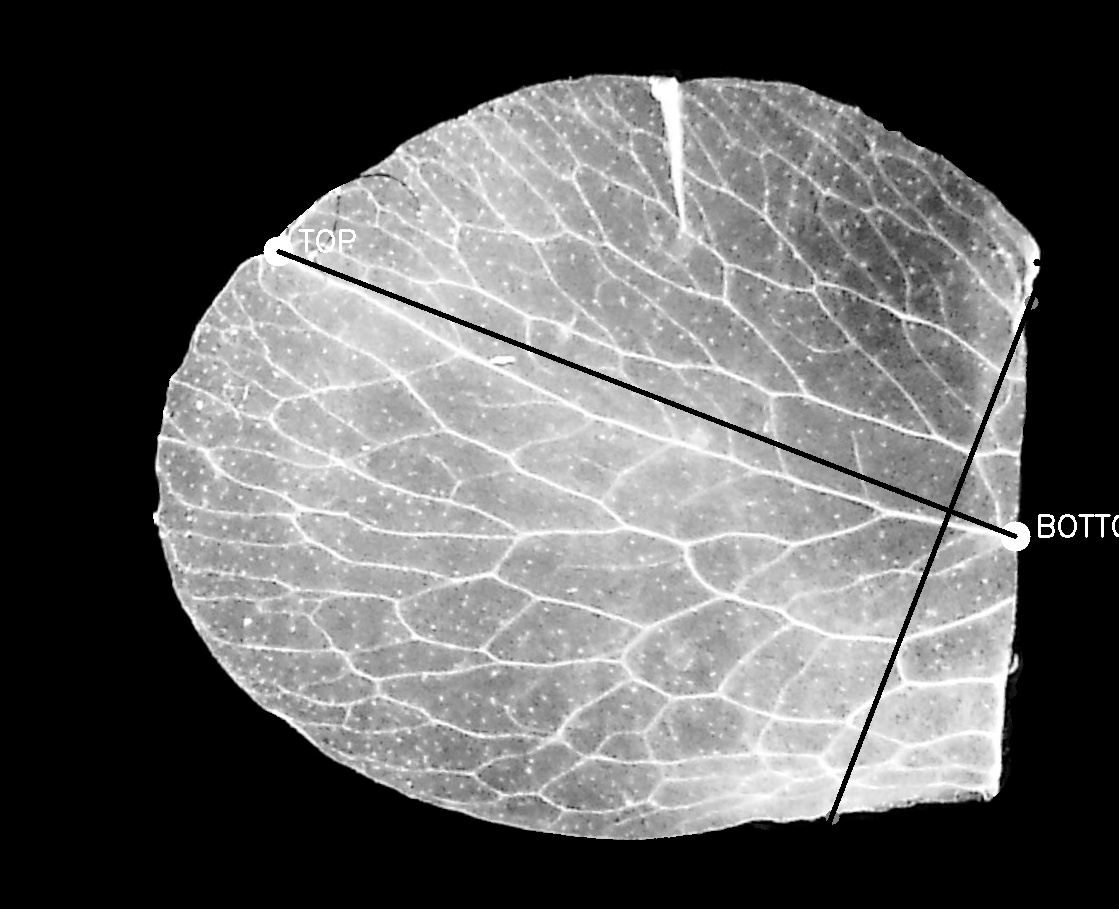
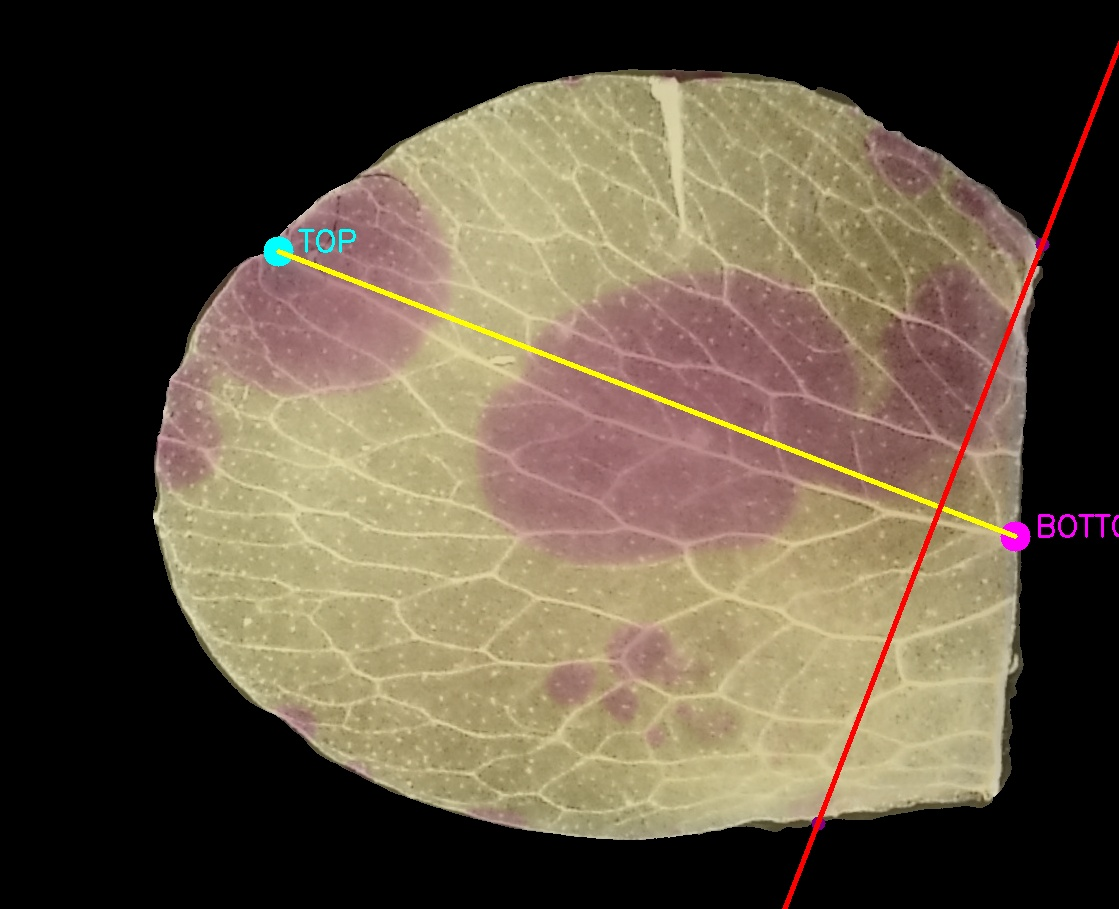
Changed the image source for warping. Warping is now done on combined vein/petal image

diff --git a/src/image_warping.py b/src/image_warping.py
@@ -124,6 +124,7 @@ def display_keypoints(input_dir, output_dir):
             #keypoints = vein_annotation_t
             #Use the straightened image from petals_bottom
             image = straightened_images[base_name]
+            image = cv2.cvtColor(image, cv2.COLOR_BGR2RGB)
             #image = vein_aligned #fallback
 
             if image is None:
@@ -266,7 +267,7 @@ def display_keypoints(input_dir, output_dir):
             import traceback
             traceback.print_exc()
 
-def warp_petals(input_dir, output_dir):
+def warp_petals(input_dir, output_dir, draw_Keypoints=True):
     """Process all vein images in the input directory."""
     os.makedirs(output_dir, exist_ok=True)
 
@@ -274,7 +275,7 @@ def warp_petals(input_dir, output_dir):
 
     image_pairs = img_align.get_file_pairs(input_dir)
     success = 0
-    straightened_images = petals_bottom.process_all_petals(input_dir, output_dir, False)
+    straightened_images = petals_bottom.process_all_petals(input_dir, output_dir, False) #Change so that we use the combined image and not the vein image
     for pair in image_pairs:
         #print(f"Processing pair: {pair[0]} and {pair[1]}")
         if "vein" in pair[0].lower():
@@ -381,6 +382,7 @@ def warp_petals(input_dir, output_dir):
                 [cx,  cy - radius],  # top corner        -> left end of diameter
                 [cx,  cy + radius],  # bottom corner     -> right end of diameter
             ])
+            axis_points = dest_points[:4]  # the 4 keypoints that define the main axis and corners
 
             # Also offset the circle edge keypoints
             circle_keypoints_top_abs = circle_keypoints_top    + np.array([cx, cy])
@@ -411,39 +413,48 @@ def warp_petals(input_dir, output_dir):
             edge_keypoints_bottom = np.array(edge_keypoints_bottom)
             
             # Display original and warped images with landmarks
-            print('displaying results for: ' + base_name)
-            fig, (ax1, ax2) = plt.subplots(1, 2)
-            ax1.imshow(image, cmap='gray')
-            #ax1.scatter(src_points[:, 0], src_points[:, 1], marker='x', color='red')
-            ax1.scatter(edge_keypoints_top[:, 0], edge_keypoints_top[:, 1], marker='o', color='blue', label='Top Edge Keypoints')
-            ax1.scatter(edge_keypoints_bottom[:, 0], edge_keypoints_bottom[:, 1], marker='o', color='green', label='Bottom Edge Keypoints')
-            #for i, point in enumerate(src_points):
-            #    ax1.annotate(f'KP{i+1}', (point[0] + 5, point[1] - 5), color='red', fontsize=12)
-            ax1.set_title('Original Image')
+            if draw_Keypoints:
+                print('displaying results for: ' + base_name)
+                fig, (ax1, ax2) = plt.subplots(1, 2)
+                ax1.imshow(image, cmap='gray')
+                #ax1.scatter(src_points[:, 0], src_points[:, 1], marker='x', color='red')
+                ax1.scatter(edge_keypoints_top[:, 0], edge_keypoints_top[:, 1], marker='o', color='blue', label='Top Edge Keypoints')
+                ax1.scatter(edge_keypoints_bottom[:, 0], edge_keypoints_bottom[:, 1], marker='o', color='green', label='Bottom Edge Keypoints')
+                ax1.scatter(keypoints['center_vein_top'][0], keypoints['center_vein_top'][1], marker='o', color='yellow', label='Center Vein Top')
+                ax1.scatter(keypoints['center_vein_bottom'][0], keypoints['center_vein_bottom'][1], marker='o', color='magenta', label='Center Vein Bottom')
+                ax1.scatter(keypoints['top corner'][0], keypoints['top corner'][1], marker='o', color='yellow', label='Top Corner')
+                ax1.scatter(keypoints['bottom corner'][0], keypoints['bottom corner'][1], marker='o', color='yellow', label='Bottom Corner')
+                #for i, point in enumerate(src_points):
+                #    ax1.annotate(f'KP{i+1}', (point[0] + 5, point[1] - 5), color='red', fontsize=12)
+                ax1.set_title('Original Image')
 
-            ax2.imshow(warped, cmap='gray')
-            #ax2.scatter(dest_points[:, 0], dest_points[:, 1], marker='x', color='red')
-            ax2.scatter(circle_keypoints_top_abs[:, 0], circle_keypoints_top_abs[:, 1], marker='o', color='blue', label='Top Edge Keypoints')
-            ax2.scatter(circle_keypoints_bottom_abs[:, 0], circle_keypoints_bottom_abs[:, 1], marker='o', color='green', label='Bottom Edge Keypoints')
-            #for i, point in enumerate(dest_points):
-            #    ax2.annotate(f'KP{i+1}', (point[0] + 5, point[1] - 5), color='red', fontsize=12)
-            ax2.set_title('Warped Image')
+                ax2.imshow(warped, cmap='gray')
+                #ax2.scatter(dest_points[:, 0], dest_points[:, 1], marker='x', color='red')
+                ax2.scatter(circle_keypoints_top_abs[:, 0], circle_keypoints_top_abs[:, 1], marker='o', color='blue', label='Top Edge Keypoints')
+                ax2.scatter(circle_keypoints_bottom_abs[:, 0], circle_keypoints_bottom_abs[:, 1], marker='o', color='green', label='Bottom Edge Keypoints')
+                ax2.scatter(axis_points[:, 0], axis_points[:, 1], marker='o', color='yellow', label='Axis Keypoints')
+                
+                #for i, point in enumerate(dest_points):
+                #    ax2.annotate(f'KP{i+1}', (point[0] + 5, point[1] - 5), color='red', fontsize=12)
+                ax2.set_title('Warped Image')
 
-            for i, point in enumerate(edge_keypoints_top):
-                ax1.annotate(str(i), (point[0]+5, point[1]-5), color='blue', fontsize=8)
-            for i, point in enumerate(circle_keypoints_top_abs):
-                ax2.annotate(str(i), (point[0]+5, point[1]-5), color='blue', fontsize=8)
+                for i, point in enumerate(edge_keypoints_top):
+                    ax1.annotate(str(i), (point[0]+5, point[1]-5), color='white', fontsize=8)
+                for i, point in enumerate(circle_keypoints_top_abs):
+                    ax2.annotate(str(i), (point[0]+5, point[1]-5), color='white', fontsize=8)
 
-            for i, point in enumerate(edge_keypoints_bottom):
-                ax1.annotate(str(i), (point[0]+5, point[1]-5), color='green', fontsize=8)
-            for i, point in enumerate(circle_keypoints_bottom_abs):
-                ax2.annotate(str(i), (point[0]+5, point[1]-5), color='green', fontsize=8)
-            if show.lower() == 'y':
-                plt.show()
-            
-            output_path = os.path.join(output_dir, f"{base_name}_warped.png")
-            plt.savefig(output_path, bbox_inches='tight', dpi=150)
-            plt.close()  # Free memory, important when processing many images
+                for i, point in enumerate(edge_keypoints_bottom):
+                    ax1.annotate(str(i), (point[0]+5, point[1]-5), color='white', fontsize=8)
+                for i, point in enumerate(circle_keypoints_bottom_abs):
+                    ax2.annotate(str(i), (point[0]+5, point[1]-5), color='white', fontsize=8)
+                for i, point in enumerate(keypoints.values()):
+                    ax1.annotate(f'KP{i+1}', (point[0] + 5, point[1] - 5), color='white', fontsize=12)
+                if show.lower() == 'y':
+                    plt.show()
+                
+                output_path = os.path.join(output_dir, f"{base_name}_warped.png")
+                plt.savefig(output_path, bbox_inches='tight', dpi=150)
+                plt.close()  # Free memory, important when processing many images
 
 
         except Exception as e:

diff --git a/src/petals_bottom.py b/src/petals_bottom.py
@@ -278,12 +278,17 @@ def process_all_petals(input_dir, output_dir, Write=True):
             
             # Process image
             petal_shape, vein_aligned, warp_matrix = img_align.align_images(petal_image, image)
+            # Use combined image instead of vein_aligned.
+            masked_petal = cv2.bitwise_and(petal_image,cv2.cvtColor(petal_shape, cv2.COLOR_GRAY2BGR),) 
+            combined = img_align.combine_imgs(masked_petal, vein_aligned)
             inv_warp_matrix = cv2.invertAffineTransform(warp_matrix) 
             vein_annotation_t = JSONfunc.get_transformed_annotations(vein_annotation,inv_warp_matrix)
             aligned_keypoints = get_keypoints(vein_annotation_t)
             keypoints = aligned_keypoints
             #keypoints = vein_annotation_t
-            image = vein_aligned
+            #image = vein_aligned
+            image = combined #Used combined image of petal and vein to better showcase whole process.
+            image = cv2.cvtColor(image, cv2.COLOR_BGR2RGB)
             #image = cv2.rotate(image, cv2.ROTATE_180)
             petal_mask = get_petal_shape_simple(image)
             edge_points, edge_type, bounds = detect_edge_from_keypoints(petal_mask, keypoints)

diff --git a/src/image_alignment.py b/src/image_alignment.py
@@ -109,6 +109,7 @@ def match_images(petal_image, vein_image, s1, s2):
 
 def combine_imgs(img1, img2):
     grimg = cv2.cvtColor(img2,cv2.COLOR_GRAY2BGR)
+    grimg = cv2.cvtColor(grimg, cv2.COLOR_BGR2RGB)
     alpha = 0.5
     beta = (1.0 - alpha)
     dst = cv2.addWeighted(img1, alpha, grimg, beta, 0.0)
